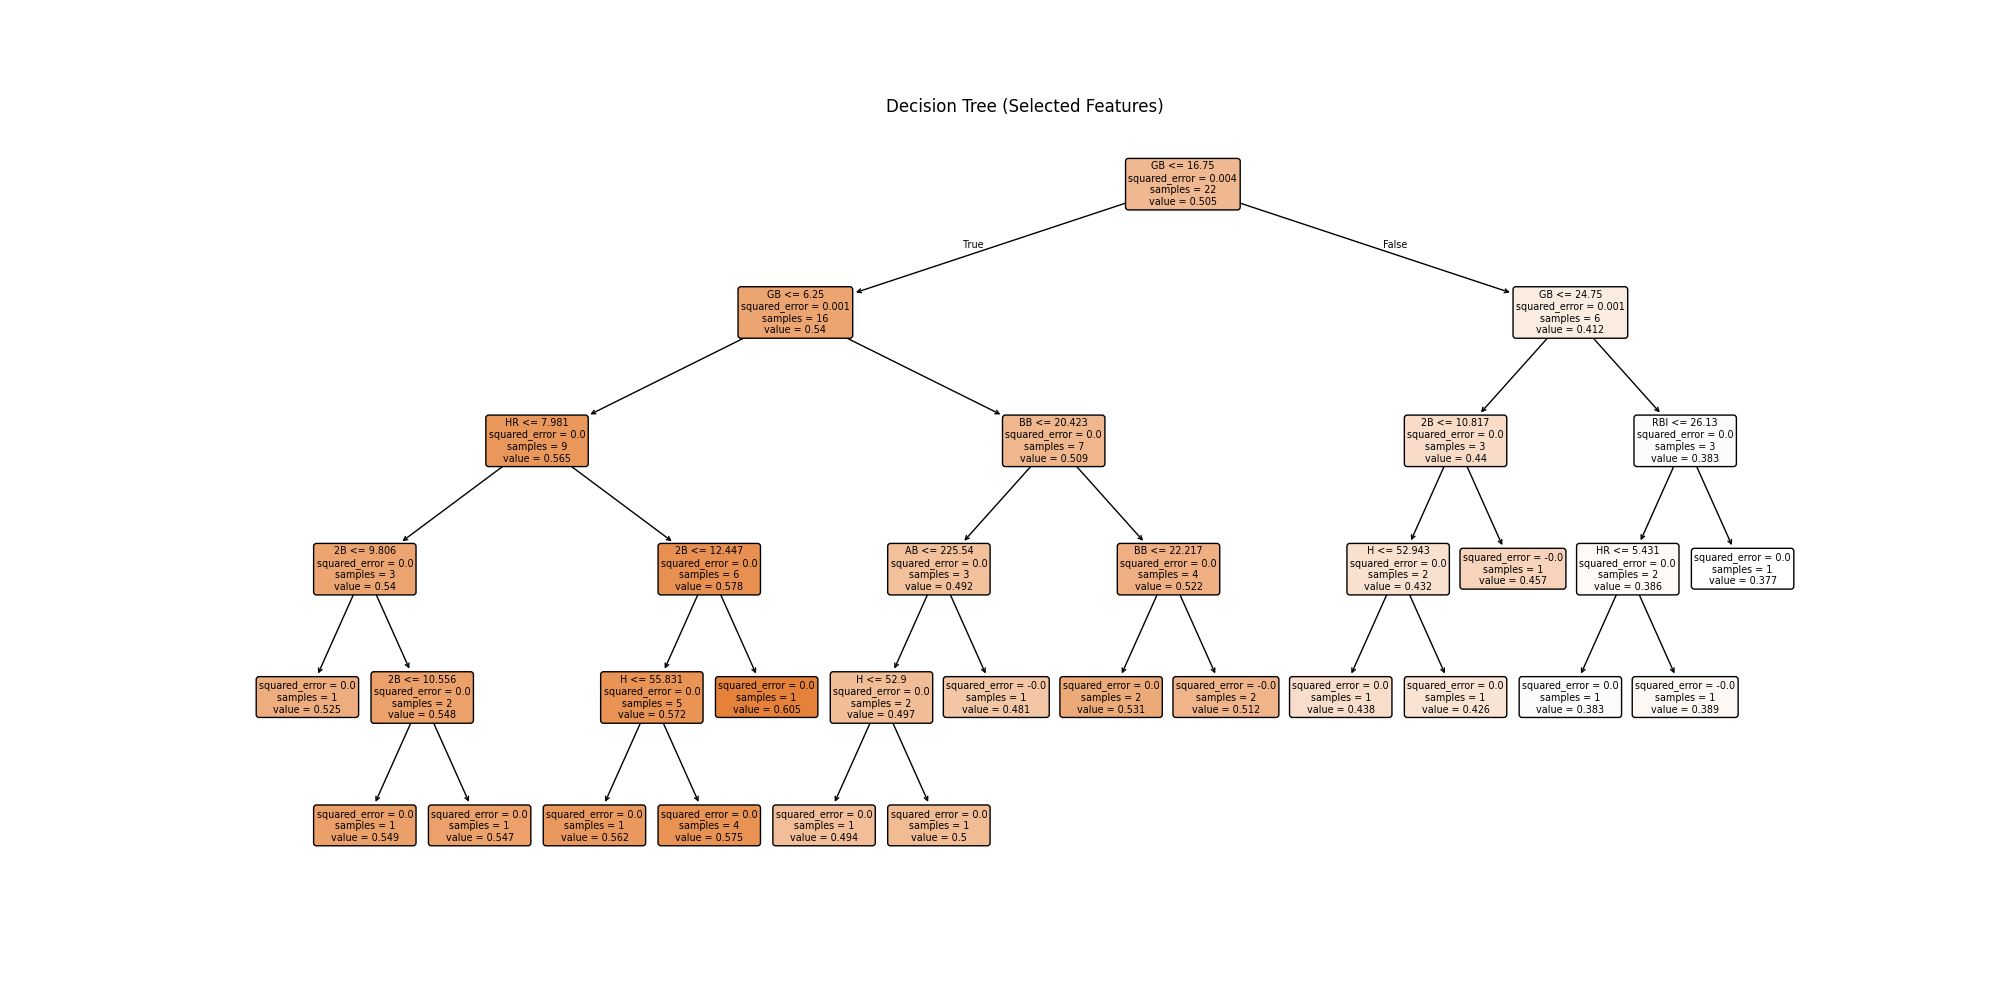
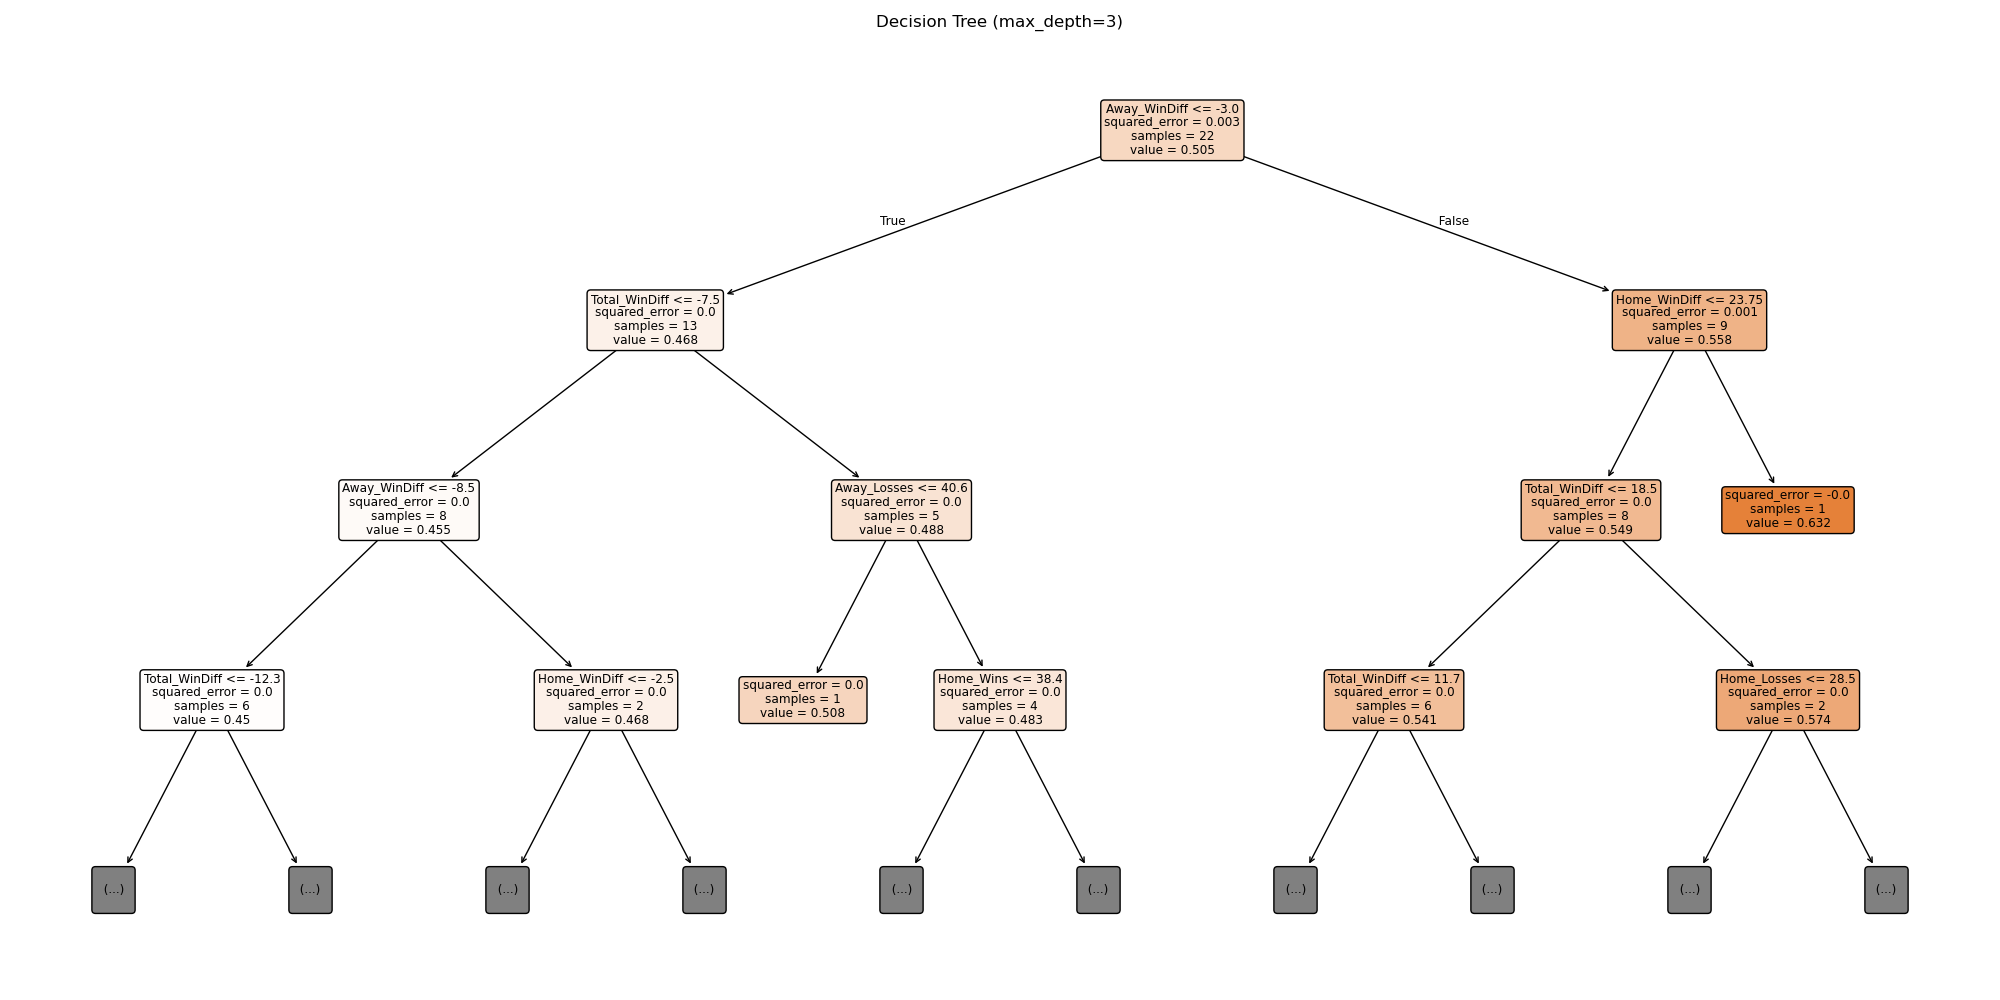
新增多個圖表及Excel報告，並重構報告程式碼以改善可讀性與維護性

diff --git a/mlbreport/report.py b/mlbreport/report.py
@@ -3,68 +3,42 @@ import numpy as np
 import matplotlib.pyplot as plt
 import seaborn as sns
 from sklearn.ensemble import RandomForestRegressor
-from sklearn.tree import DecisionTreeRegressor
+from sklearn.tree import DecisionTreeRegressor, plot_tree
 from sklearn.model_selection import train_test_split
 from sklearn.metrics import mean_squared_error, r2_score
 
-# 讀取資料
+# ======= 資料讀取與前處理 =======
 merged = pd.read_csv("C:/Users/richc/OneDrive/桌面/專題/mlbdata/merged_output_team_year_avg.csv")
-
 target_col = 'Win_Pct'
-
-# 排除欄位
 exclude_cols = ['Wins', 'Losses', 'W', 'L', 'OPS', 'ERA', target_col]
 exclude_cols = [col for col in exclude_cols if col in merged.columns]
-
-# 取得數值欄位，排除exclude_cols
 num_cols = merged.select_dtypes(include='number').columns.tolist()
 feature_candidates = [c for c in num_cols if c not in exclude_cols]
 
-print(f"數值候選自變數: {feature_candidates}")
-
-# 計算皮爾森相關係數
+# ======= 選擇與勝率相關變數 =======
 corr = merged[feature_candidates + [target_col]].corr()
-
-# 與目標相關性 (絕對值)
 win_corr = corr[target_col].drop(target_col).abs()
-
-print("各候選變數與勝率絕對相關係數:")
-print(win_corr)
-
 threshold = 0.5
 selected_features = win_corr[win_corr >= threshold].index.tolist()
-print(f"選出自變數(相關係數≥{threshold}): {selected_features}")
-
-# 如果沒選到變數就用 OPS 和 ERA 當作對照組(如果有的話)
 if not selected_features:
-    print("未選出自變數，使用 OPS 和 ERA 作為對照組")
     selected_features = [col for col in ['OPS', 'ERA'] if col in merged.columns]
 
-# 下面是一個簡單的函式來跑模型
+# ======= 建模函式 =======
 def run_model(X, y):
     X_train, X_test, y_train, y_test = train_test_split(X, y, random_state=42)
     rf = RandomForestRegressor(random_state=42)
     dt = DecisionTreeRegressor(random_state=42)
-
     rf.fit(X_train, y_train)
     dt.fit(X_train, y_train)
-
     rf_pred = rf.predict(X_test)
     dt_pred = dt.predict(X_test)
-
     results = {
-        'Random Forest': {
-            'MSE': mean_squared_error(y_test, rf_pred),
-            'R2': r2_score(y_test, rf_pred)
-        },
-        'Decision Tree': {
-            'MSE': mean_squared_error(y_test, dt_pred),
-            'R2': r2_score(y_test, dt_pred)
-        }
+        'Random Forest': {'MSE': mean_squared_error(y_test, rf_pred), 'R2': r2_score(y_test, rf_pred)},
+        'Decision Tree': {'MSE': mean_squared_error(y_test, dt_pred), 'R2': r2_score(y_test, dt_pred)}
     }
-    return results
+    return results, rf, dt
 
-# 一、單球隊單年資料 (假設 Team 和 year 欄位存在)
+# ======= 單球隊逐年資料 =======
 teams = merged['Team'].unique()
 results_single = []
 for team in teams:
@@ -73,53 +47,45 @@ for team in teams:
         continue
     X = df_team[selected_features]
     y = df_team[target_col]
-    res = run_model(X, y)
+    res, _, _ = run_model(X, y)
     for model in res:
         results_single.append({'Team': team, 'Model': model, 'MSE': res[model]['MSE'], 'R2': res[model]['R2']})
-
 df_single = pd.DataFrame(results_single)
 
-# 二、單球隊10年平均資料
+# ======= 單球隊10年平均資料 =======
 df_10y = merged.groupby('Team')[selected_features + [target_col]].mean().reset_index()
 X_10y = df_10y[selected_features]
 y_10y = df_10y[target_col]
-res_10y = run_model(X_10y, y_10y)
-df_10y_results = pd.DataFrame([{'Team':'All','Model':k,'MSE':v['MSE'],'R2':v['R2']} for k,v in res_10y.items()])
+res_10y, rf_10y, dt_10y = run_model(X_10y, y_10y)
+df_10y_results = pd.DataFrame([{'Team': 'All', 'Model': k, 'MSE': v['MSE'], 'R2': v['R2']} for k, v in res_10y.items()])
 
-# 三、全MLB 10年平均資料
+# ======= 全MLB逐年平均資料 =======
 df_all_10y = merged.groupby('year')[selected_features + [target_col]].mean().reset_index()
 X_all_10y = df_all_10y[selected_features]
 y_all_10y = df_all_10y[target_col]
-res_all_10y = run_model(X_all_10y, y_all_10y)
-df_all_10y_results = pd.DataFrame([{'Team':'MLB_years','Model':k,'MSE':v['MSE'],'R2':v['R2']} for k,v in res_all_10y.items()])
+res_all_10y, _, _ = run_model(X_all_10y, y_all_10y)
+df_all_10y_results = pd.DataFrame([{'Team': 'MLB_years', 'Model': k, 'MSE': v['MSE'], 'R2': v['R2']} for k, v in res_all_10y.items()])
 
-# 合併所有結果
+# ======= 合併結果與繪圖 =======
 df_all_results = pd.concat([df_single, df_10y_results, df_all_10y_results], ignore_index=True)
 
-print(df_all_results)
-
-# 繪圖看結果
-plt.figure(figsize=(12,6))
+plt.figure(figsize=(12, 6))
 sns.boxplot(x='Model', y='MSE', data=df_all_results)
 plt.title("Model MSE Comparison")
 plt.show()
 
-plt.figure(figsize=(12,6))
+plt.figure(figsize=(12, 6))
 sns.boxplot(x='Model', y='R2', data=df_all_results)
 plt.title("Model R2 Comparison")
 plt.show()
 
-target_col = 'Win_Pct'
-
+# ======= 畫出熱力圖：與勝率最相關變數 =======
 exclude_cols = ['勝', '敗', 'W', 'L', 'Wins', 'Losses', 'OPS', 'ERA', target_col]
 exclude_cols = [col for col in exclude_cols if col in merged.columns]
-
 numeric_cols = merged.select_dtypes(include='number').columns.difference(exclude_cols)
-
 corr_matrix = merged[numeric_cols.tolist() + [target_col]].corr()
 corr_target = corr_matrix[target_col].drop(target_col)
-
-top_n = 6
+top_n = 10
 important_vars = corr_target.abs().sort_values(ascending=False).head(top_n).index.tolist()
 important_corrs = corr_target.loc[important_vars]
 
@@ -127,19 +93,77 @@ if important_vars:
     plt.figure(figsize=(4, top_n * 0.6))
     sns.heatmap(
         important_corrs.to_frame(),
-        annot=True,
-        cmap='coolwarm',
-        center=0,
-        cbar=True,
-        yticklabels=True,
-        xticklabels=[target_col],
-        linewidths=0.5,
-        linecolor='gray',
-        fmt=".2f"
+        annot=True, cmap='coolwarm', center=0, cbar=True,
+        yticklabels=True, xticklabels=[target_col],
+        linewidths=0.5, linecolor='gray', fmt=".2f"
     )
     plt.title(f"Top {top_n} Variables Correlation with {target_col}")
     plt.yticks(rotation=0)
     plt.tight_layout()
+    save_path = r"C:/Users/richc/OneDrive/桌面/專題/mlbreport/heatmap_team_year_avg.png"
+    plt.savefig(save_path, dpi=300)
     plt.show()
+    print(f"熱力圖已儲存至 {save_path}")
 else:
-    print("⚠ 沒有重要變數可畫圖")
+    print("沒有重要變數可畫圖")
+
+# ======= 對照組模型（只用 OPS & ERA） =======
+basic_features = [col for col in ['OPS', 'ERA'] if col in merged.columns]
+X_basic = merged[basic_features]
+y_basic = merged[target_col]
+res_basic, _, _ = run_model(X_basic, y_basic)
+
+df_compare = pd.DataFrame(
+    [{'Feature_Set': 'OPS+ERA', 'Model': model, 'MSE': res_basic[model]['MSE'], 'R2': res_basic[model]['R2']} for model in res_basic] +
+    [{'Feature_Set': 'Selected_Features', 'Model': model, 'MSE': res_10y[model]['MSE'], 'R2': res_10y[model]['R2']} for model in res_10y]
+)
+
+plt.figure(figsize=(8, 6))
+sns.barplot(x='Model', y='R2', hue='Feature_Set', data=df_compare)
+plt.title("R² Comparison: OPS+ERA vs Selected Features")
+plt.ylim(0, 1)
+plt.tight_layout()
+plt.show()
+
+plt.figure(figsize=(8, 6))
+sns.barplot(x='Model', y='MSE', hue='Feature_Set', data=df_compare)
+plt.title("MSE Comparison: OPS+ERA vs Selected Features")
+plt.tight_layout()
+plt.show()
+
+# ======= 可視化決策樹 =======
+# 1. Decision Tree (單一)
+# 繪製決策樹並存成圖片
+plt.figure(figsize=(20, 10))
+plot_tree(dt_10y, feature_names=selected_features, filled=True, rounded=True, max_depth=3)
+plt.title("Decision Tree (max_depth=3)")
+plt.tight_layout()
+plt.savefig(r"C:/Users/richc/OneDrive/桌面/專題/mlbreport/decision_tree_10y.png", dpi=300)
+plt.close()
+
+plt.figure(figsize=(20, 10))
+plot_tree(rf_10y.estimators_[0], feature_names=selected_features, filled=True, rounded=True, max_depth=3)
+plt.title("Random Forest - One Tree (max_depth=3)")
+plt.tight_layout()
+plt.savefig(r"C:/Users/richc/OneDrive/桌面/專題/mlbreport/random_forest_tree_10y.png", dpi=300)
+plt.close()
+
+# ======= 儲存結果至 Excel 檔（多工作表） =======
+excel_output_path = r"C:/Users/richc/OneDrive/桌面/專題/mlbreport/mlb_model_results.xlsx"
+
+# 格式化結果數字
+df_all_results_formatted = df_all_results.copy()
+df_all_results_formatted['MSE'] = df_all_results_formatted['MSE'].round(9)
+df_all_results_formatted['R2'] = df_all_results_formatted['R2'].round(9)
+
+df_compare_formatted = df_compare.copy()
+df_compare_formatted['MSE'] = df_compare_formatted['MSE'].round(9)
+df_compare_formatted['R2'] = df_compare_formatted['R2'].round(9)
+
+# 儲存成 Excel (多工作表)
+with pd.ExcelWriter(excel_output_path) as writer:
+    df_compare_formatted.to_excel(writer, sheet_name='Compare', index=False)
+    df_all_results_formatted.to_excel(writer, sheet_name='AllTeams', index=False)
+
+print(f"\n✅ 結果已成功儲存為 Excel 檔：{excel_output_path}")
+
